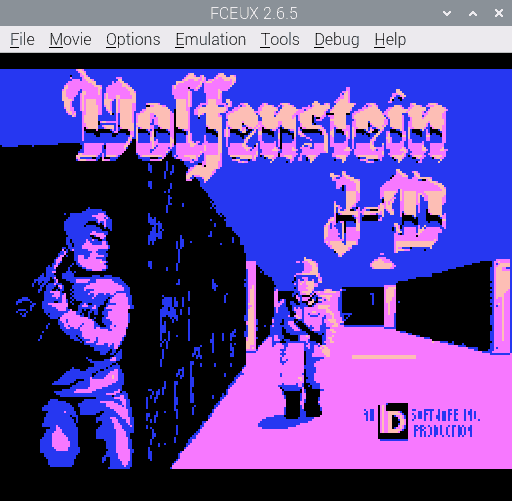
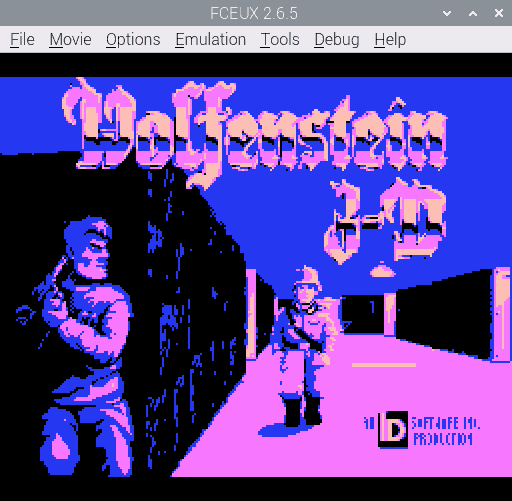
support heights divisible by 8

diff --git a/png2nesdata.py b/png2nesdata.py
@@ -17,7 +17,6 @@ INPUT_PALETTE = (
 # special values to write
 BLANK_TILE    = 64 * (0,)  # filled with colour 0
 UNUSED_TILE   = 64 * (3,)  # filled with colour 3
-UNUSED_COLOUR = 0x00       # grey (NES colour index)
 
 # files to write (used by stillimage.asm)
 PRG_OUT_FILE = "prg.bin"
@@ -46,8 +45,8 @@ def get_tiles(image):
 
     if not 8 <= image.width <= 256 or image.width % 8 > 0:
         sys.exit("Image width must be 8-256 and a multiple of 8.")
-    if not 16 <= image.height <= 224 or image.height % 16 > 0:
-        sys.exit("Image height must be 16-224 and a multiple of 16.")
+    if not 8 <= image.height <= 224 or image.height % 8 > 0:
+        sys.exit("Image height must be 8-224 and a multiple of 8.")
     if image.getcolors(4) is None:
         sys.exit("The image must have 4 colours or less.")
 
@@ -89,32 +88,38 @@ def encode_at_data(atData):
 
 def get_prg_data(ntData, spriteData, outputPal, imgWidth, imgHeight):
     # generate each byte of PRG data;
-    # ntData:     indexes to distinct background tiles
+    # ntData:     indexes to distinct background tiles;
+    #             if imgHeight is odd, this will be one tile taller
     # spriteData: (X, Y, index_to_distinct_sprite_pairs) for each
     # outputPal:  a tuple of 4 ints
     # imgWidth:   image width  in tiles
-    # imgHeight:  image height in tiles (always even)
+    # imgHeight:  image height in tiles
 
-    # used for sprite coordinates and background scrolling
-    xOffset = (32 - imgWidth ) * 4
-    yOffset = (30 - imgHeight) * 4
+    ntDataHeight = len(ntData) // imgWidth  # always even
 
-    # name table (32*30 bytes); the image itself is at bottom right
-    yield from (0x00 for i in range((30 - imgHeight) * 32))  # top margin
-    for y in range(imgHeight):
+    # name table (32*30 bytes); the image itself is at bottom right, except
+    # if its height is odd, it will have one blank row under it
+    yield from (0x00 for i in range((30 - ntDataHeight) * 32))  # top margin
+    for y in range(ntDataHeight):
         yield from (0x00 for i in range(32 - imgWidth))  # left margin
         yield from ntData[y*imgWidth:(y+1)*imgWidth]
 
     # attribute table (16*15 blocks, 8*8 bytes)
     yield from encode_at_data(16 * 15 * [0b00])
 
+    # offsets for sprite coordinates and background scrolling
+    # (bgYOffset needs to take name table layout into account; see above)
+    xOffset    = (32 - imgWidth ) * 4
+    sprYOffset = (30 - imgHeight) * 4
+    bgYOffset  = (15 - ntDataHeight // 2) * 8 - imgHeight % 2 * 4
+
     # sprites (64 * 4 bytes)
     for (i, (x, y, t)) in enumerate(spriteData):
         yield from (
-            yOffset + y * 16 - 1,  # Y position minus 1
-            t * 2 + 1,             # tile index
-            0b00000000,            # attributes
-            xOffset + x * 8,       # X position
+            sprYOffset + y * 16 - 1,  # Y position minus 1
+            t * 2 + 1,                # tile index
+            0b00000000,               # attributes
+            xOffset + x * 8,          # X position
         )
     for i in range(64 - len(spriteData)):
         yield from (0xff, 0xff, 0xff, 0xff)  # unused (hide)
@@ -123,7 +128,8 @@ def get_prg_data(ntData, spriteData, outputPal, imgWidth, imgHeight):
     for i in range(8):
         yield from outputPal
 
-    yield from (xOffset, yOffset)  # horizontal and vertical background scroll
+    # horizontal and vertical background scroll
+    yield from (xOffset, bgYOffset)
 
 # --- get_chr_data ------------------------------------------------------------
 
@@ -170,10 +176,11 @@ def parse_arguments():
 
 def assign_tiles_to_sprites(imgTiles, imgWidth, imgHeight):
     # assign as many 1*2-tile pairs as possible to sprites instead;
-    # imgTiles:  list of image tiles starting from top left, with
-    #            duplicates; each tile is a tuple of 64 2-bit ints
+    # imgTiles:  list of image tiles starting from top left, with duplicates;
+    #            if imgHeight is odd, this is one tile taller;
+    #            each tile is a tuple of 64 2-bit ints
     # imgWidth:  image width  in tiles
-    # imgHeight: image height in tiles (always even)
+    # imgHeight: image height in tiles
     # return:    (background_tiles, sprite_data)
 
     bgTiles = imgTiles.copy()
@@ -183,8 +190,8 @@ def assign_tiles_to_sprites(imgTiles, imgWidth, imgHeight):
 
     # run many rounds to find first the pairs that save the most background
     # tiles
-    for round_ in range(6):
-        for sprY in range(imgHeight // 2):
+    for round_ in range(6):  # TODO: is this necessary?
+        for sprY in range((imgHeight + 1) // 2):  # round up
             for sprX in range(imgWidth):
                 # "up" = upper, "lo" = lower
                 upTilePos =  sprY * 2      * imgWidth + sprX
@@ -269,9 +276,13 @@ def main():
             image = Image.open(handle)
             imgTiles = list(get_tiles(image))
             imgWidth  = image.width  // 8
-            imgHeight = image.height // 8  # always even
+            imgHeight = image.height // 8
     except OSError:
         sys.exit("Error reading input file.")
+
+    # if the height is odd, pretend there's an extra row of blank tiles
+    if imgHeight % 2 > 0:
+        imgTiles.extend(BLANK_TILE for i in range(imgWidth))
 
     # smallest possible error when replacing tiles
     minTileReplError = 1

diff --git a/README.md b/README.md
@@ -19,7 +19,7 @@ A Python program that converts an image (e.g. PNG) into NES graphics data. Requi
 Command line arguments: *inputFile outputColour0 outputColour1 outputColour2 outputColour3*
 * *inputFile*: the image file to read:
   * the width must be 8&ndash;256 pixels and a multiple of 8 pixels
-  * the height must be 16&ndash;224 pixels and a multiple of 16 pixels
+  * the height must be 8&ndash;224 pixels and a multiple of 8 pixels
   * may only contain these colours (hexadecimal RRGGBB): `000000`, `555555`, `aaaaaa`, `ffffff`
   * if the image is too complex (has too many distinct tiles), it will be automatically simplified, which reduces the quality and takes a lot of time
 * *outputColour0*&hellip;*outputColour3*: the output palette:
@@ -29,7 +29,7 @@ Command line arguments: *inputFile outputColour0 outputColour1 outputColour2 out
 The program writes `prg.bin` and `chr.bin`. (They will be overwritten if they already exist.)
 
 ## stillimage.asm
-An NES program that displays the graphics data from `prg.bin` and `chr.bin`. The files must be generated beforehand by `png2nesdata.py`. Assembles with [ASM6](https://www.romhacking.net/utilities/674/)).
+An NES program that displays the graphics data from `prg.bin` and `chr.bin`. The files must be generated beforehand by `png2nesdata.py`. Assembles with [ASM6](https://www.romhacking.net/utilities/674/).
 
 To assemble, run `asm6 stillimage.asm output.nes`
 
